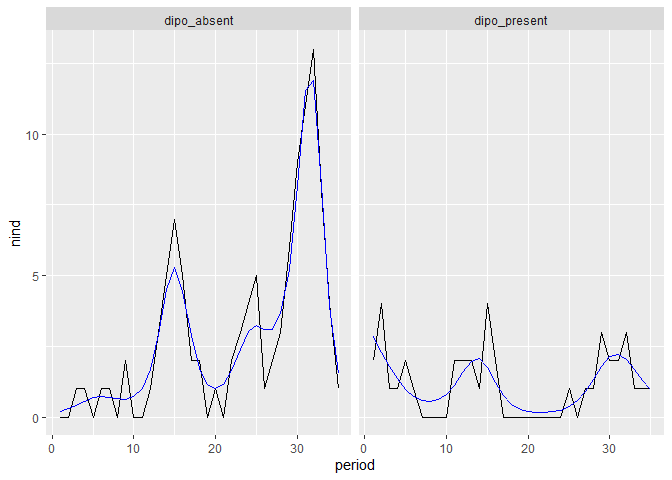
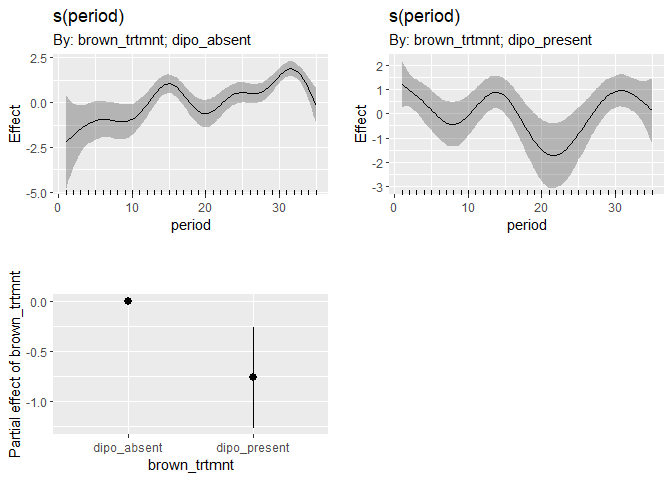
havent pushed ina while

diff --git a/lore/1981_competition/gams.md b/lore/1981_competition/gams.md
@@ -5,76 +5,79 @@ New plots with 81 data
 
 ``` r
 load_mgcv()
-df <- data_sim("eg4")
-m <- gam(y ~ fac + s(x2, by = fac) + s(x0), data = df, method = "REML")
-difference_smooths(m, smooth = "s(x2)")
-```
 
-    ## # A tibble: 300 x 9
-    ##    smooth by    level_1 level_2  diff    se   lower upper       x2
-    ##    <chr>  <chr> <chr>   <chr>   <dbl> <dbl>   <dbl> <dbl>    <dbl>
-    ##  1 s(x2)  fac   1       2       0.759 0.799 -0.808   2.33 0.000757
-    ##  2 s(x2)  fac   1       2       0.800 0.750 -0.669   2.27 0.0108  
-    ##  3 s(x2)  fac   1       2       0.840 0.702 -0.536   2.22 0.0209  
-    ##  4 s(x2)  fac   1       2       0.881 0.657 -0.407   2.17 0.0310  
-    ##  5 s(x2)  fac   1       2       0.921 0.615 -0.285   2.13 0.0411  
-    ##  6 s(x2)  fac   1       2       0.961 0.577 -0.169   2.09 0.0512  
-    ##  7 s(x2)  fac   1       2       1.00  0.542 -0.0621  2.06 0.0613  
-    ##  8 s(x2)  fac   1       2       1.04  0.511  0.0370  2.04 0.0714  
-    ##  9 s(x2)  fac   1       2       1.08  0.484  0.128   2.03 0.0815  
-    ## 10 s(x2)  fac   1       2       1.11  0.461  0.211   2.02 0.0916  
-    ## # ... with 290 more rows
-
-``` r
 rat_totals <- rat_totals %>%
   mutate(brown_trtmnt = as.factor(brown_trtmnt))
 
-n_gam <- gam(nind ~  brown_trtmnt + s(period, by = brown_trtmnt), data = filter(rat_totals, type == "small_granivore"), method = "REML", family = "poisson")
+sg <- filter(rat_totals, type == "small_granivore")
 
-n_gam_fitted <- rat_totals %>%
-  filter(type == "small_granivore") %>%
-  add_fitted(model = n_gam, value = "fitted")
+n_gam <- gam(nind ~  brown_trtmnt + s(period, by = brown_trtmnt), data = sg, method = "REML", family = "poisson")
 
-ggplot(n_gam_fitted, aes(period, nind, shape = brown_trtmnt)) +
-  geom_line() +
-  geom_line(aes(period, fitted), color = "blue") +
-  facet_wrap(vars(brown_trtmnt))
+draw(n_gam)
 ```
 
 ![](gams_files/figure-gfm/unnamed-chunk-2-1.png)<!-- -->
 
 ``` r
-n_gam_diff <- difference_smooths(n_gam, smooth = "s(period)", newdata = select(filter(rat_totals, type == "small_granivore"), period, brown_trtmnt))
+n_gam_fitted <- add_fitted(sg, n_gam, value = "fitted")
 
-head(n_gam_diff)
-```
-
-    ## # A tibble: 6 x 9
-    ##   smooth    by           level_1     level_2      diff    se lower  upper period
-    ##   <chr>     <chr>        <chr>       <chr>       <dbl> <dbl> <dbl>  <dbl>  <dbl>
-    ## 1 s(period) brown_trtmnt dipo_absent dipo_prese~ -3.39 1.38  -6.08 -0.689   1   
-    ## 2 s(period) brown_trtmnt dipo_absent dipo_prese~ -3.18 1.21  -5.57 -0.803   1.34
-    ## 3 s(period) brown_trtmnt dipo_absent dipo_prese~ -2.98 1.07  -5.07 -0.890   1.69
-    ## 4 s(period) brown_trtmnt dipo_absent dipo_prese~ -2.78 0.938 -4.62 -0.940   2.03
-    ## 5 s(period) brown_trtmnt dipo_absent dipo_prese~ -2.58 0.833 -4.21 -0.944   2.37
-    ## 6 s(period) brown_trtmnt dipo_absent dipo_prese~ -2.37 0.755 -3.85 -0.895   2.72
-
-``` r
-draw(n_gam)
+ggplot(n_gam_fitted, aes(period, nind, color = brown_trtmnt)) +
+  geom_point() +
+  geom_line() +
+  theme_bw() +
+  geom_line(aes(period, fitted, color = brown_trtmnt), size = 2) +
+  scale_color_viridis_d(end = .8)
 ```
 
 ![](gams_files/figure-gfm/unnamed-chunk-2-2.png)<!-- -->
 
 ``` r
-ggplot(n_gam_diff, aes(period, diff)) +
+fitted_ci <- function(gam_obj, ndraws = 500, df, seed = 1977) {
+  
+  sampled_vals <- fitted_samples(gam_obj, n = ndraws, newdata = df, seed = seed)
+  
+  sampled_vals <- sampled_vals %>%
+    group_by(row) %>%
+    summarize(
+      meanfit = mean(fitted),
+      lowerfit = quantile(fitted, probs = .025),
+      upperfit= quantile(fitted, probs = .975)
+    ) %>%
+    ungroup()
+  
+  df <- df %>%
+    mutate(row = dplyr::row_number()) %>%
+    left_join(sampled_vals)
+  
+  df  
+}
+
+n_gam_ci_manual <- fitted_ci(n_gam, df= sg)
+```
+
+    ## `summarise()` ungrouping output (override with `.groups` argument)
+
+    ## Joining, by = "row"
+
+``` r
+ggplot(n_gam_ci_manual, aes(period, nind, color = brown_trtmnt)) +
   geom_line() +
-  geom_line(aes(period, lower)) +
-  geom_line(aes(period, upper)) +
-  theme_bw() +
-  geom_hline(yintercept = 0)
+  geom_line(aes(period, meanfit)) +
+  geom_ribbon(aes(period, ymin = lowerfit, ymax = upperfit, fill = brown_trtmnt), alpha = .5) +
+  theme_bw()
 ```
 
 ![](gams_files/figure-gfm/unnamed-chunk-2-3.png)<!-- -->
+
+``` r
+n_gam_diff <- difference_smooths(n_gam, smooth = "s(period)")
+
+ggplot(n_gam_diff, aes(period, diff)) +
+  geom_line() +
+  geom_ribbon(aes(period, ymin = lower,ymax= upper), alpha = .5)
+```
+
+![](gams_files/figure-gfm/unnamed-chunk-2-4.png)<!-- -->
 
 I’m not sure what the difference is between,
 
@@ -105,25 +108,23 @@ what I’m looking at:
     difference between the manipulation types.
   - Looking at **abundance** responses for two groups, **kangaroo rats**
     and **small granivores**.
-      - Kangaroo rats (DM, DO, DS) in order to capture how long it took
-        krats to colonize the newly available plots to match controls,
-        depending on whether other rodents were present or not.
-      - Small granivores “because we expected inferior competitors to be
-        displaced by the invasion of kangaroo rats”.
-          - Results are not shown in the main text but described.
-            “Before the switch, sg abundances were higher on krat
-            removals than on controls. After all plots were converted to
-            controls, sg abundances on both plot types quickly converged
-            to control levels within a few months. The rapid decline in
-            non krats is consistent with previous research showing that
-            krats are behaviorally dominant over other rodents. Because
-            differences in treatments in non krat species disappeared
-            quickly, seems unlikely that direct interference with non
-            krats explains the delay in recovery of krats on plots that
-            had rodents present.”
-          - The “small granivores” species list is longer than it was in
-            1981, I think because more species showed up as time went
-            on.
+  - Kangaroo rats (DM, DO, DS) in order to capture how long it took
+    krats to colonize the newly available plots to match controls,
+    depending on whether other rodents were present or not.
+  - Small granivores “because we expected inferior competitors to be
+    displaced by the invasion of kangaroo rats”.
+  - Results are not shown in the main text but described. “Before the
+    switch, sg abundances were higher on krat removals than on controls.
+    After all plots were converted to controls, sg abundances on both
+    plot types quickly converged to control levels within a few months.
+    The rapid decline in non krats is consistent with previous research
+    showing that krats are behaviorally dominant over other rodents.
+    Because differences in treatments in non krat species disappeared
+    quickly, seems unlikely that direct interference with non krats
+    explains the delay in recovery of krats on plots that had rodents
+    present.”
+  - The “small granivores” species list is longer than it was in 1981, I
+    think because more species showed up as time went on.
 
 Without, or rather **before** getting into the specific questions being
 asked/comparisons being made, the 2019 analysis illustrates that we can
@@ -136,57 +137,3 @@ use GAMs and the difference in GAM smooths to
 additionally,
 
   - we can include effects for plot
-
-<!-- end list -->
-
-``` r
-dummy_totals <- rat_totals %>%
-  filter(type == "small_granivore", brown_trtmnt == "dipo_absent")
-
-dummy_totals <- dummy_totals %>%
-  bind_rows(mutate(dummy_totals, brown_trtmnt = "dipo_present")) %>%
-  mutate(nind = ifelse(brown_trtmnt == "dipo_absent", nind, nind + 10),
-         biomass =ifelse(brown_trtmnt == "dipo_absent", biomass, biomass + 30),
-         energy = ifelse(brown_trtmnt == "dipo_absent", energy, energy + 100)) %>%
-  mutate(brown_trtmnt = as.factor(brown_trtmnt))
-
-ggplot(dummy_totals, aes(period, nind, color = brown_trtmnt)) +
-  geom_line()
-```
-
-![](gams_files/figure-gfm/unnamed-chunk-3-1.png)<!-- -->
-
-``` r
-dummy_gam_nofac <-gam(nind ~  s(period, by = brown_trtmnt), data = dummy_totals, method = "REML", family = "poisson")
-
-dummy_gam_fac <- gam(nind ~  brown_trtmnt + s(period, by = brown_trtmnt), data = dummy_totals, method = "REML", family = "poisson")
-
-nofac_pred <- add_fitted(dummy_totals, dummy_gam_nofac)
-ggplot(nofac_pred, aes(period, nind, color = brown_trtmnt)) +
-  geom_point() +
-  geom_line(aes(period, .value, color = brown_trtmnt))
-```
-
-![](gams_files/figure-gfm/unnamed-chunk-3-2.png)<!-- -->
-
-``` r
-fac_pred <- add_fitted(dummy_totals, dummy_gam_fac)
-ggplot(fac_pred, aes(period, nind, color = brown_trtmnt)) +
-  geom_point() +
-  geom_line(aes(period, .value, color = brown_trtmnt))
-```
-
-![](gams_files/figure-gfm/unnamed-chunk-3-3.png)<!-- -->
-
-``` r
-fac_pred_2 <- fac_pred %>%
-  select(-biomass, -energy) %>%
-  tidyr::pivot_wider(values_from = c(.value, nind), names_from = brown_trtmnt) %>%
-  mutate(value_diff = .value_dipo_present - .value_dipo_absent)
-  
-plot(dummy_gam_fac)
-```
-
-![](gams_files/figure-gfm/unnamed-chunk-3-4.png)<!-- -->![](gams_files/figure-gfm/unnamed-chunk-3-5.png)<!-- -->
-
-I am not understanding this properly.
